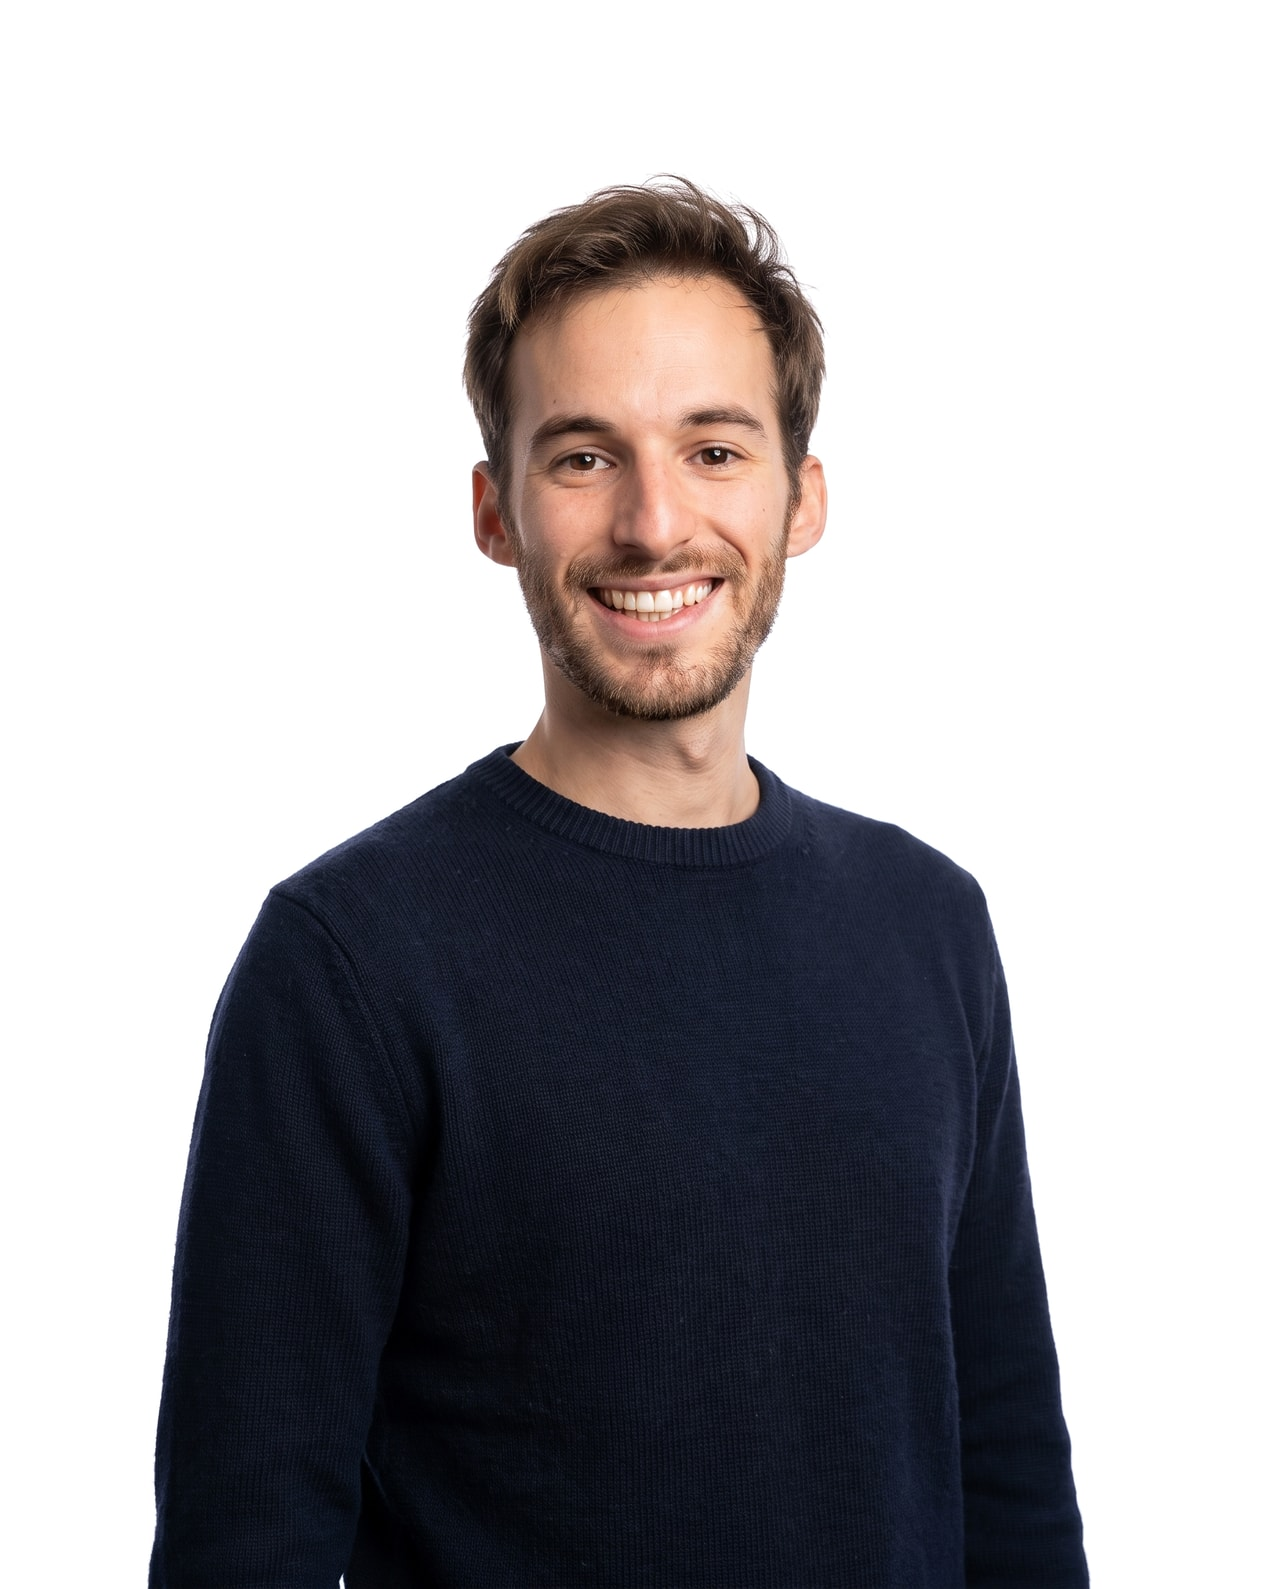
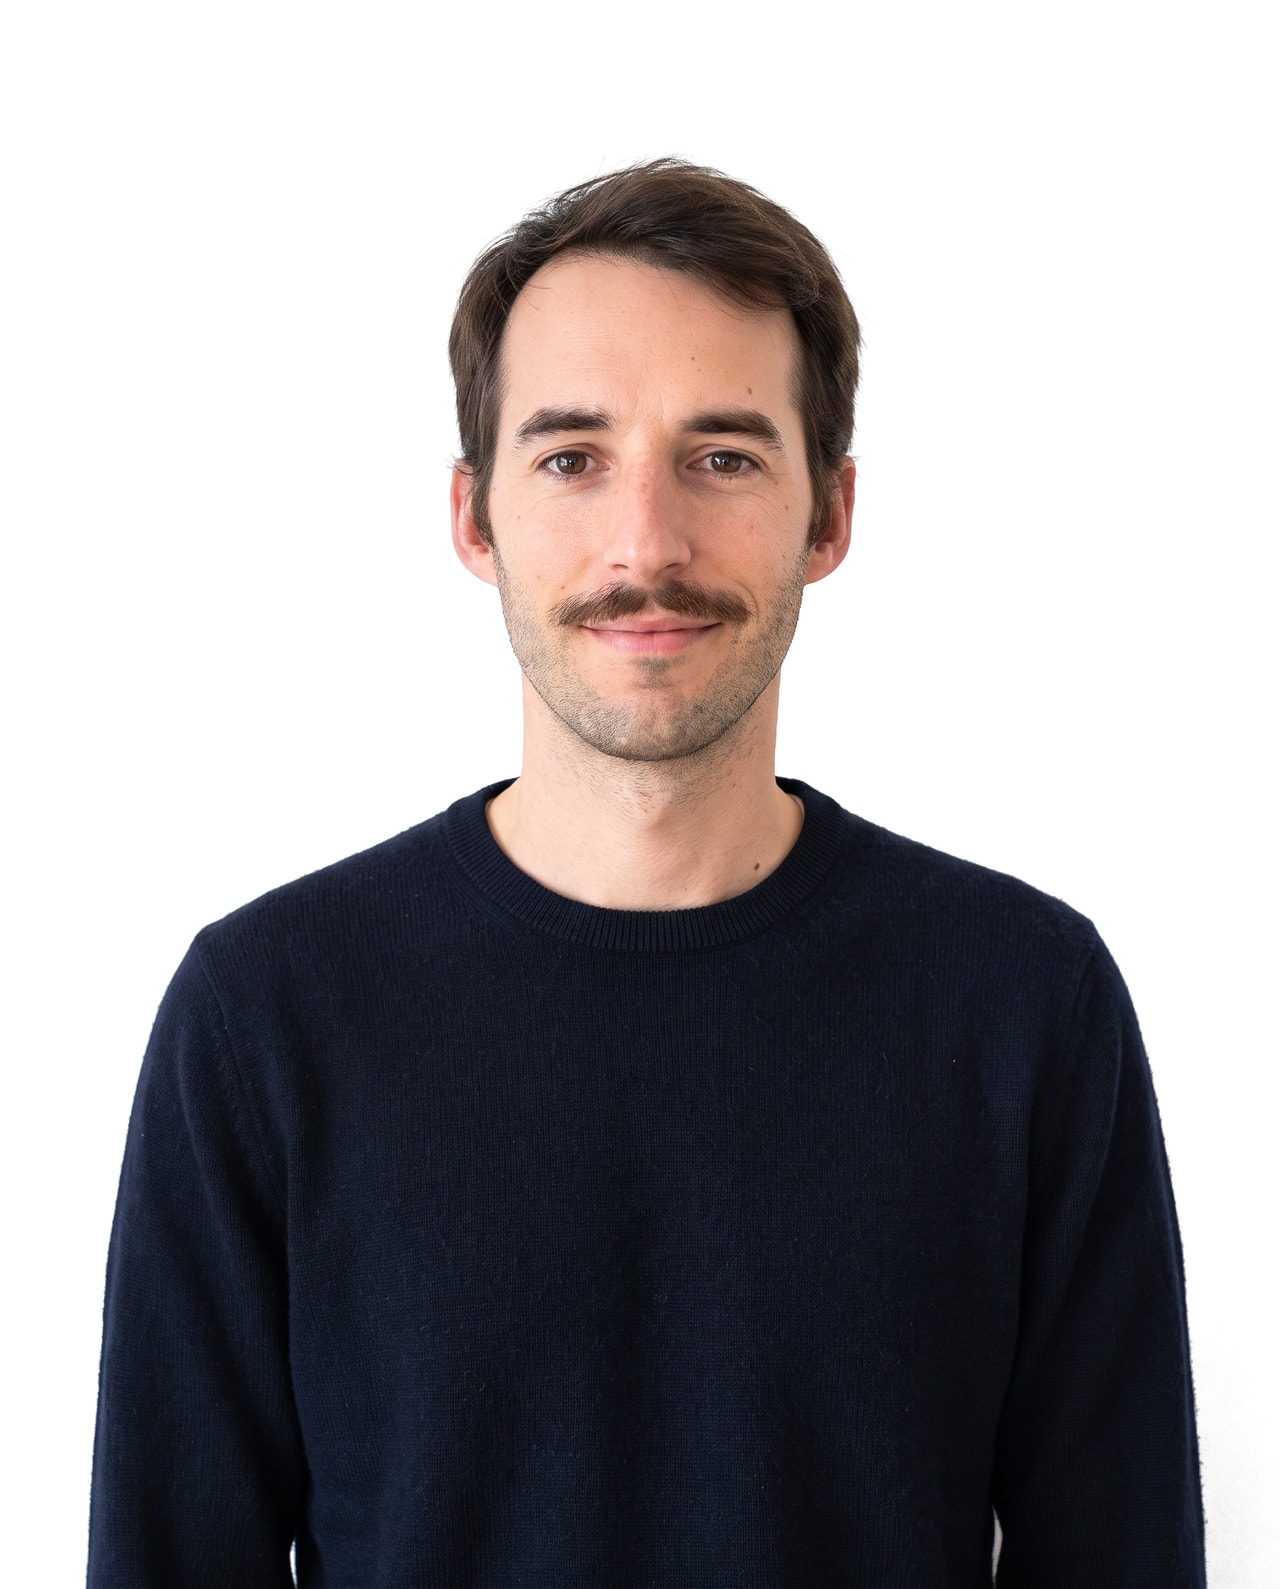
Who we are: a portrait generated from three of the owner's photos
The first portrait was generated from a photo that doesn't show the owner
as they look now. This one uses three recent photos as the only
references, and its backdrop, including the shadow beside the arms, is
graded to the page's white.

diff --git a/.agents/product-marketing.md b/.agents/product-marketing.md
@@ -105,7 +105,7 @@ From the owner (2026-10-16), and on the homepage as "Who we are":
 - Before ChatGPT, founded an AI company that built models of every kind to automate fraud and security work.
 - That company was acquired by a San Francisco company, where the owner then worked: building AI and the processes around it where it had the most impact, adopting new advances at a very early stage, and reaching very high levels of automation.
 - The agency has worked on processes of every kind.
-- Say "since before ChatGPT"; never a number of years in AI. The acquirer is not named on the page. The portrait (`apps/site/src/media/founder.jpg`) was generated with Nano Banana Pro from the owner's own photos, at the owner's request; the owner chose it, its teeth were lightly whitened by hand and its backdrop graded to white.
+- Say "since before ChatGPT"; never a number of years in AI. The acquirer is not named on the page. The portrait (`apps/site/src/media/founder.jpg`) was generated with Nano Banana Pro from three of the owner's own photos, at the owner's request, and its backdrop graded to white.
 
 ## Proof Points
 **Metrics:** [NEED: none yet. Do not publish numbers until a client result exists]
